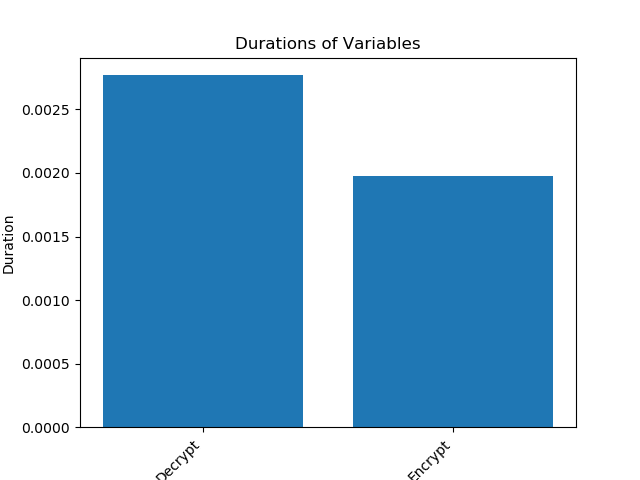
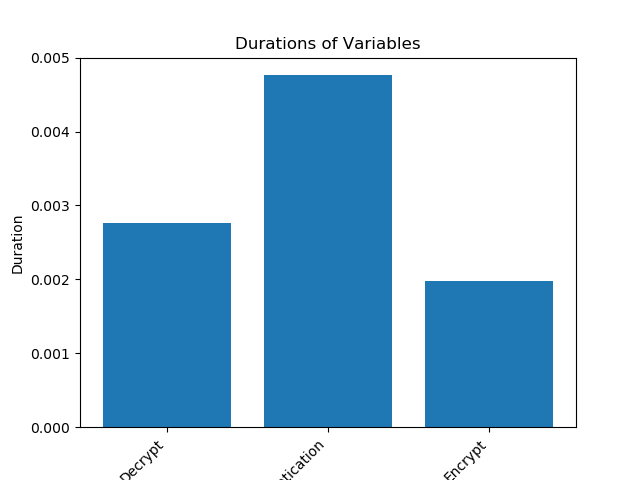
Mid review checkpoint

diff --git a/scripts/BS.py b/scripts/BS.py
@@ -368,9 +368,15 @@ if __name__ == "__main__":
     
     print(bs.device_id,": Sending AUTH message to all the neighbouring links of Base Station 0")
 
-    for i in range(len(bs.starting_links)):
-        print(bs.device_id,": Aggregate AUTH message of path ",i," : ",auth_messages[i])
-        auth_messages[i]  = json.dumps(auth_messages[i])
+    # print("Authentication Messages : ",auth_messages)
+    # auth = bs.create_node_auth_messages()
+    # auth = bs.msg_coding(auth[1])
+    # string = json.dumps(auth)
+    # print(auth,type(auth),len(string))
+
+    # for i in range(len(bs.starting_links)):
+    #     print(bs.device_id,": Aggregate AUTH message of path ",i," : ",auth_messages[i])
+    #     auth_messages[i]  = json.dumps(auth_messages[i])
 
     i =0
     for link in bs.starting_links:

diff --git a/scripts/result_presentation.py b/scripts/result_presentation.py
@@ -3,7 +3,7 @@ puf_duration = 2.1457672119140625e-06
 encryption_duration = 0.0019729137420654297 
 decryption_duration = 0.00276947021484375 
 random_duration = 6.198883056640625e-06
-
+Authentication_duration_single_drone = 2*Random_number_duration + puf_duration + encryption_duration + decryption_duration + random_duration
  
 spanning_tree5 = 5.0067901611328125e-06 
 spanning_tree10 = 3.5762786865234375e-06 
@@ -34,7 +34,7 @@ encryption_duration = 0.0019729137420654297
 data1 = {
     
     'Decrypt': decryption_duration,
-    
+    'Authentication': Authentication_duration_single_drone,   
     'Encrypt': encryption_duration
 }
 

diff --git a/scripts/drone_instance.py b/scripts/drone_instance.py
@@ -163,7 +163,7 @@ class Device:
                 print(self.device_id,":Sending message: ", msg_new)
                 self.send_message(msg_new.destination,msg_new)
                 # process challenge here and create response here
-                processed_data = self.process_msg_data(msg)
+                # processed_data = self.process_msg_data(msg)
 
 
                 
